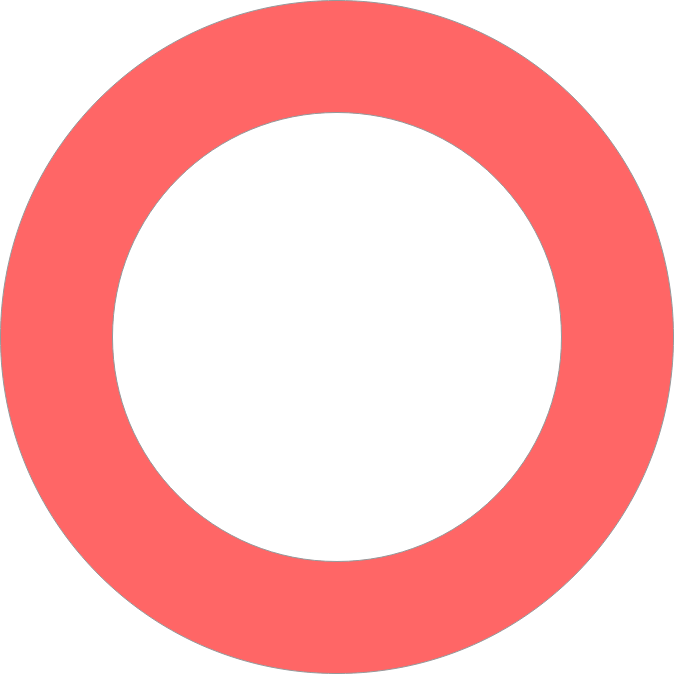
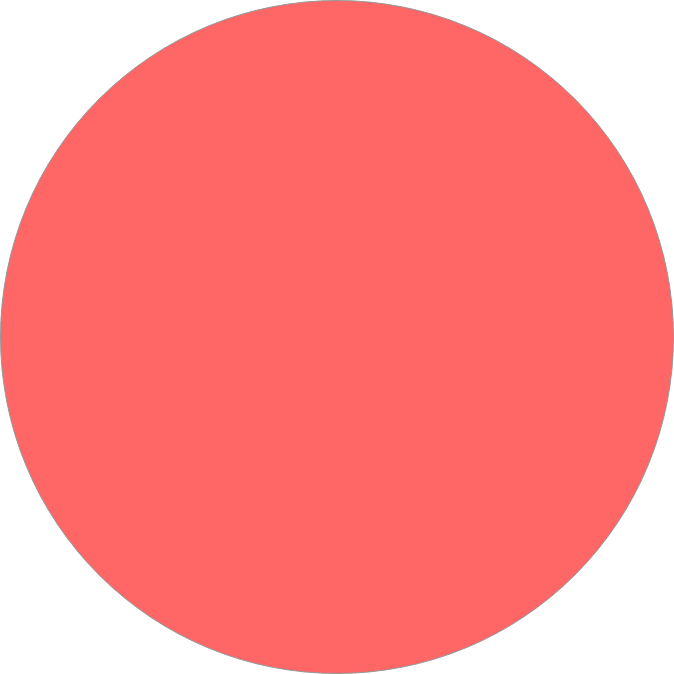
recording light now PNG (lunix support wow)

diff --git a/src/main/resources/static/src/g2/videoRecord.js b/src/main/resources/static/src/g2/videoRecord.js
@@ -109,11 +109,11 @@ var Recorder = React.createClass({
 
             if(typeof props.calc !== "undefined") {
                 /*document.getElementById("test-rec-text").innerHTML = "&#x1f534;";*/
-                document.getElementById("test-rec-text").innerHTML = "<img id='rec' src=\'images/rec.png\'>";
+                document.getElementById("test-rec-text").innerHTML = "<img class='recLight' src=\'images/notRec.png\'>";
             }
             else {
                 /*document.getElementById("rec-text").innerHTML = "&#x1f534;";*/
-                document.getElementById("rec-text").innerHTML = "<img id='rec' src=\'images/rec.png\'>";
+                document.getElementById("rec-text").innerHTML = "<img class='recLight' src=\'images/notRec.png\'>";
             }
         }
 
@@ -218,11 +218,11 @@ var Recorder = React.createClass({
                 mediaStream = null;
                 if(typeof props.calc !== "undefined") {
                     /*document.getElementById("test-rec-text").innerHTML = "&#11093;";*/
-                    document.getElementById("test-rec-text").innerHTML = "<img id='notRec' src=\'images/notRec.png\'>";
+                    document.getElementById("test-rec-text").innerHTML = "<img class='recLight' src=\'images/rec.png\'>";
                 }
                 else {
                     /*document.getElementById("rec-text").innerHTML = "&#11093;";*/
-                    document.getElementById("test-rec-text").innerHTML = "<img id='notRec' src=\'images/notRec.png\'>";
+                    document.getElementById("rec-text").innerHTML = "<img class='recLight' src=\'images/rec.png\'>";
                 }
                 cameraStarted = false;
             });
@@ -300,11 +300,11 @@ var Recorder = React.createClass({
 
         if(typeof props.calc !== "undefined") {
             /*document.getElementById("test-rec-text").innerHTML = "&#11093;";*/
-            document.getElementById("test-rec-text").innerHTML = "<img id='notRec' src=\'images/notRec.png\'>";
+            document.getElementById("test-rec-text").innerHTML = "<img class='recLight' src=\'images/rec.png\'>";
         }
         else {
             /*document.getElementById("rec-text").innerHTML = "&#11093;";*/
-            document.getElementById("rec-text").innerHTML = "<img id='notRec' src=\'images/notRec.png\'>";
+            document.getElementById("rec-text").innerHTML = "<img class='recLight' src=\'images/rec.png\'>";
         }
     },
     render: function() {

diff --git a/src/main/resources/static/src/g1/newAssignment.js b/src/main/resources/static/src/g1/newAssignment.js
@@ -307,6 +307,6 @@ window.CourseContent = React.createClass({
     }
 });
 
-//ReactDOM.render(<NewAssignmentVideo />, document.getElementById('courseContent'));
+ReactDOM.render(<NewAssignmentVideo />, document.getElementById('courseContent'));
 //ReactDOM.render(<NewAssignment />, document.getElementById('courseContent'));
 window.NewAssignment = NewAssignment;

diff --git a/src/main/resources/static/css/custom.css b/src/main/resources/static/css/custom.css
@@ -199,3 +199,8 @@ iframe {
     padding:5px;
 }
 
+img.recLight {
+	width:20px;
+	height:20px;
+}
+
